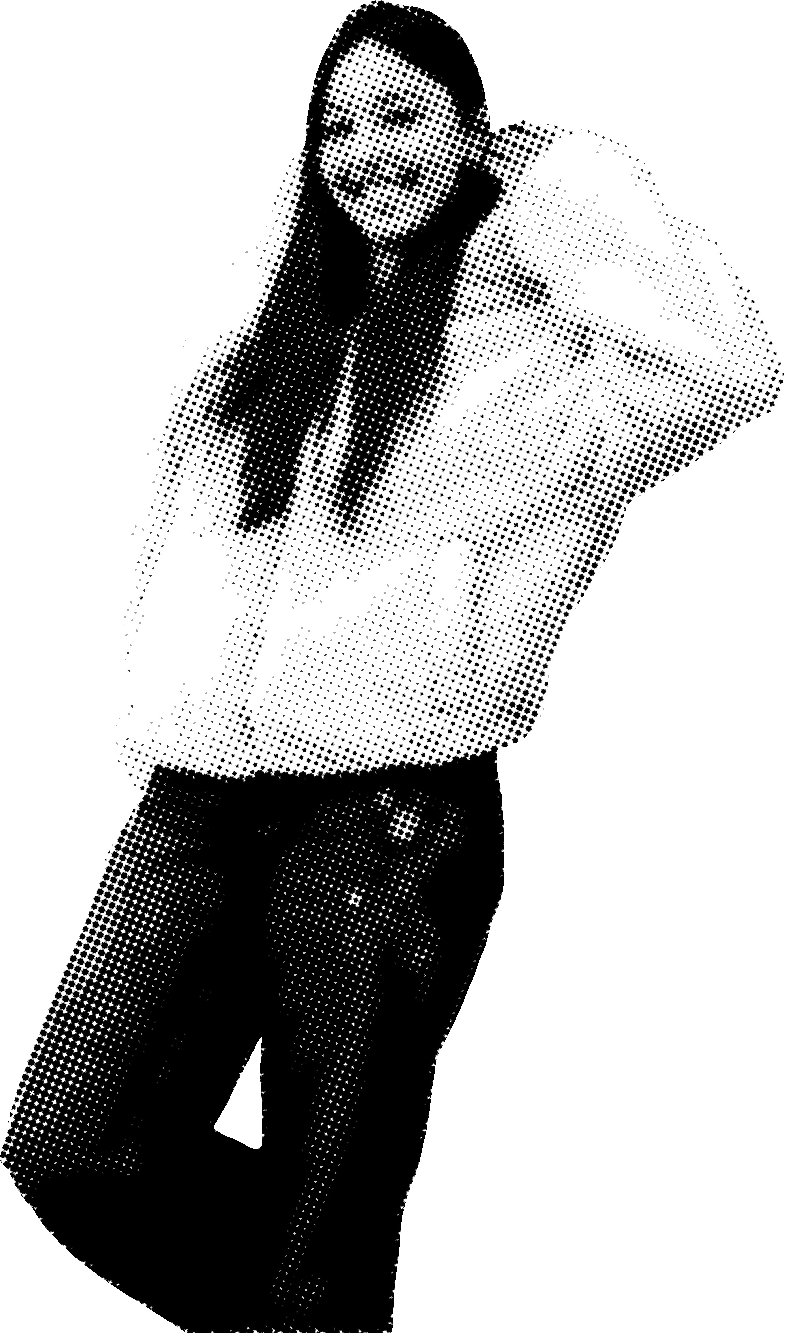
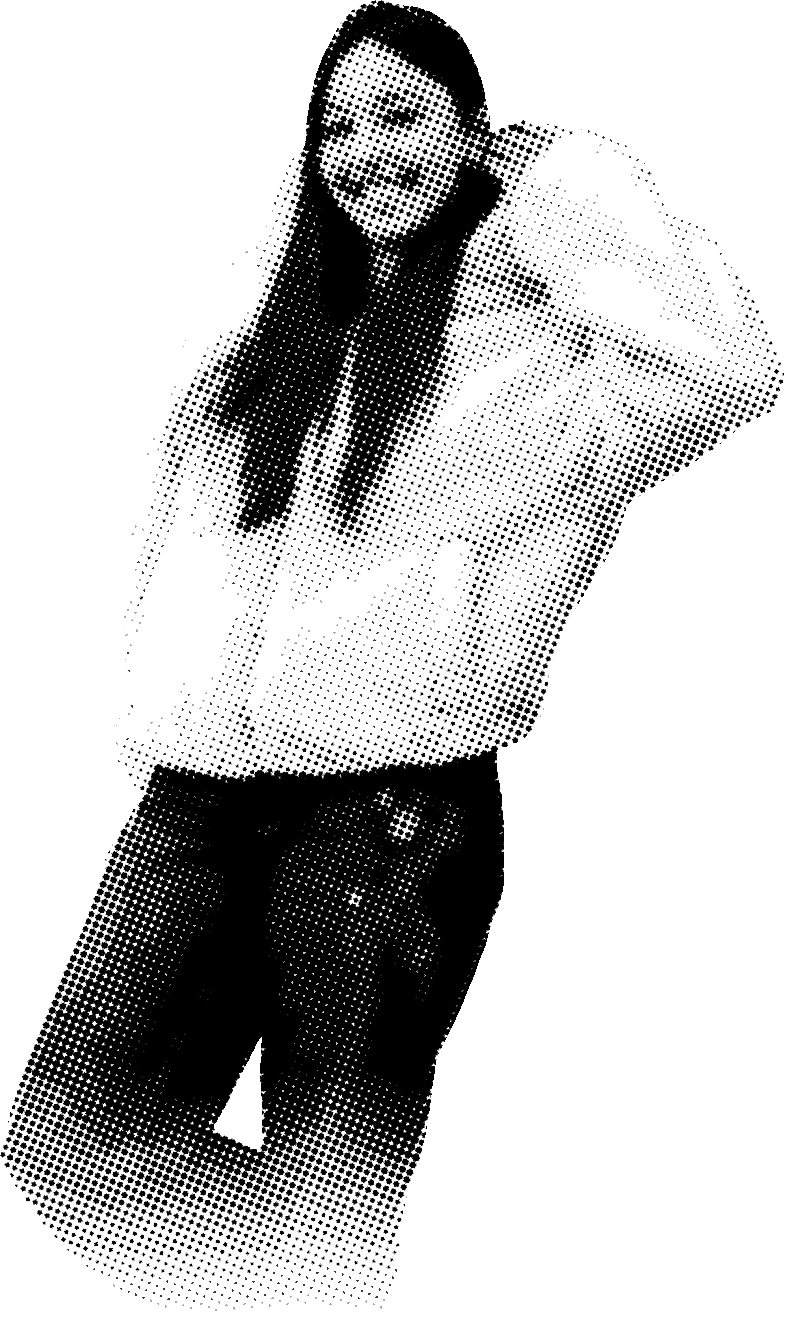
Los pies de Abril se disuelven en el semitono
El degradé quedó solo para las piezas de fondo; en la figura, los puntos se
achican hasta desaparecer.

Changed region(s): [[0.0, 0.7997, 0.5503, 1.0]]

diff --git a/src/index.css b/src/index.css
@@ -332,9 +332,7 @@ figure {
 .portada__abril {
   position: absolute;
   z-index: 3;
-  /* los pies se desvanecen: no hay corte al pasar a la sección siguiente */
-  -webkit-mask-image: linear-gradient(to bottom, #000 72%, transparent 98%);
-  mask-image: linear-gradient(to bottom, #000 72%, transparent 98%);
+  /* los pies se disuelven en el semitono (está en la imagen), sin corte al pasar a la sección siguiente */
   /* empieza justo donde termina ABRIL (≈1.9em del nombre), así nunca tapa la L */
   left: calc(var(--m) + min(29vw, 40vh) * 1.86);
   bottom: 0;
@@ -350,7 +348,7 @@ figure {
   mask: var(--mk) center / 100% 100% no-repeat;
 }
 .portada__abril-papel {
-  --mk: url(/tex/abril-cuerpo.png);
+  --mk: url(/tex/abril-cuerpo-papel.png);
   background: var(--claro);
 }
 .portada__abril-fluo {
